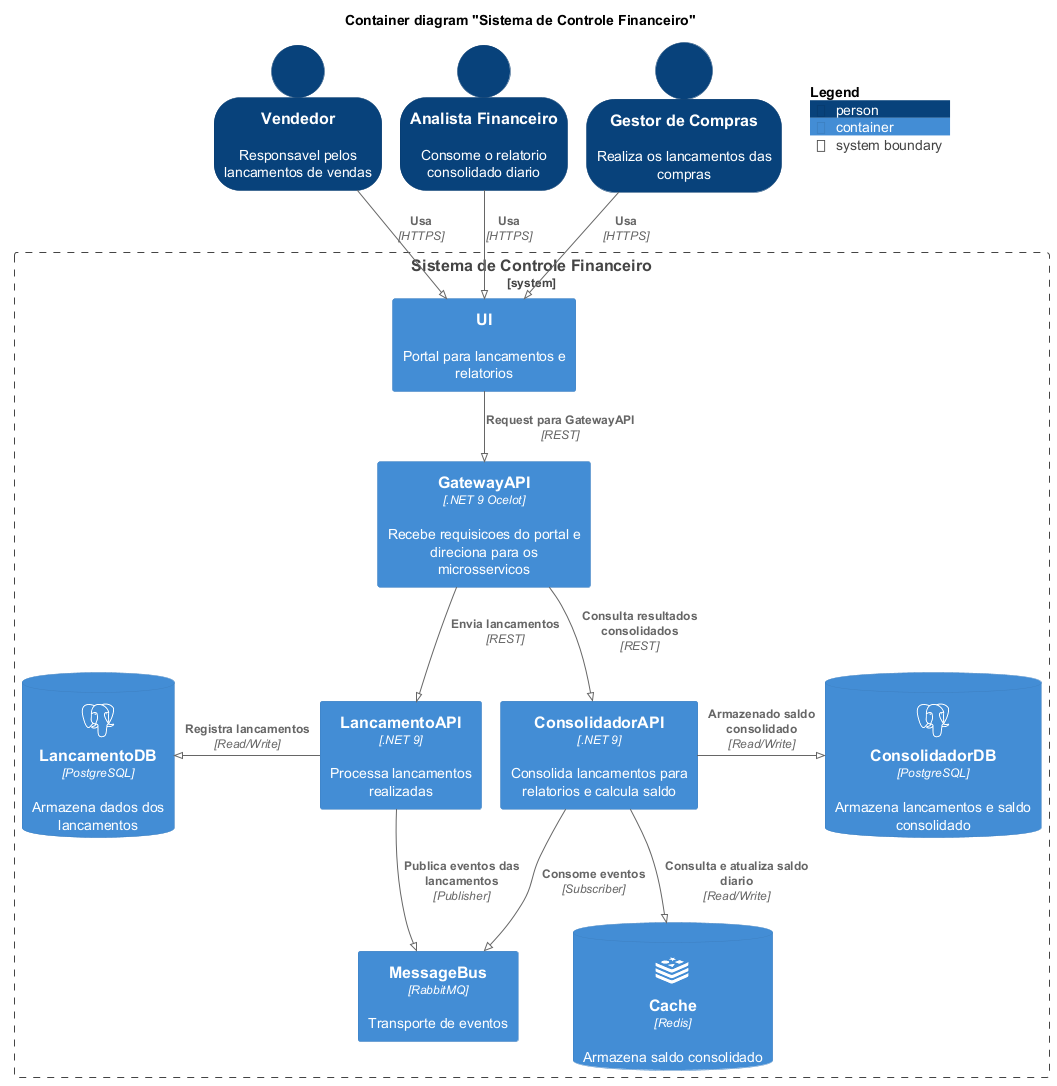
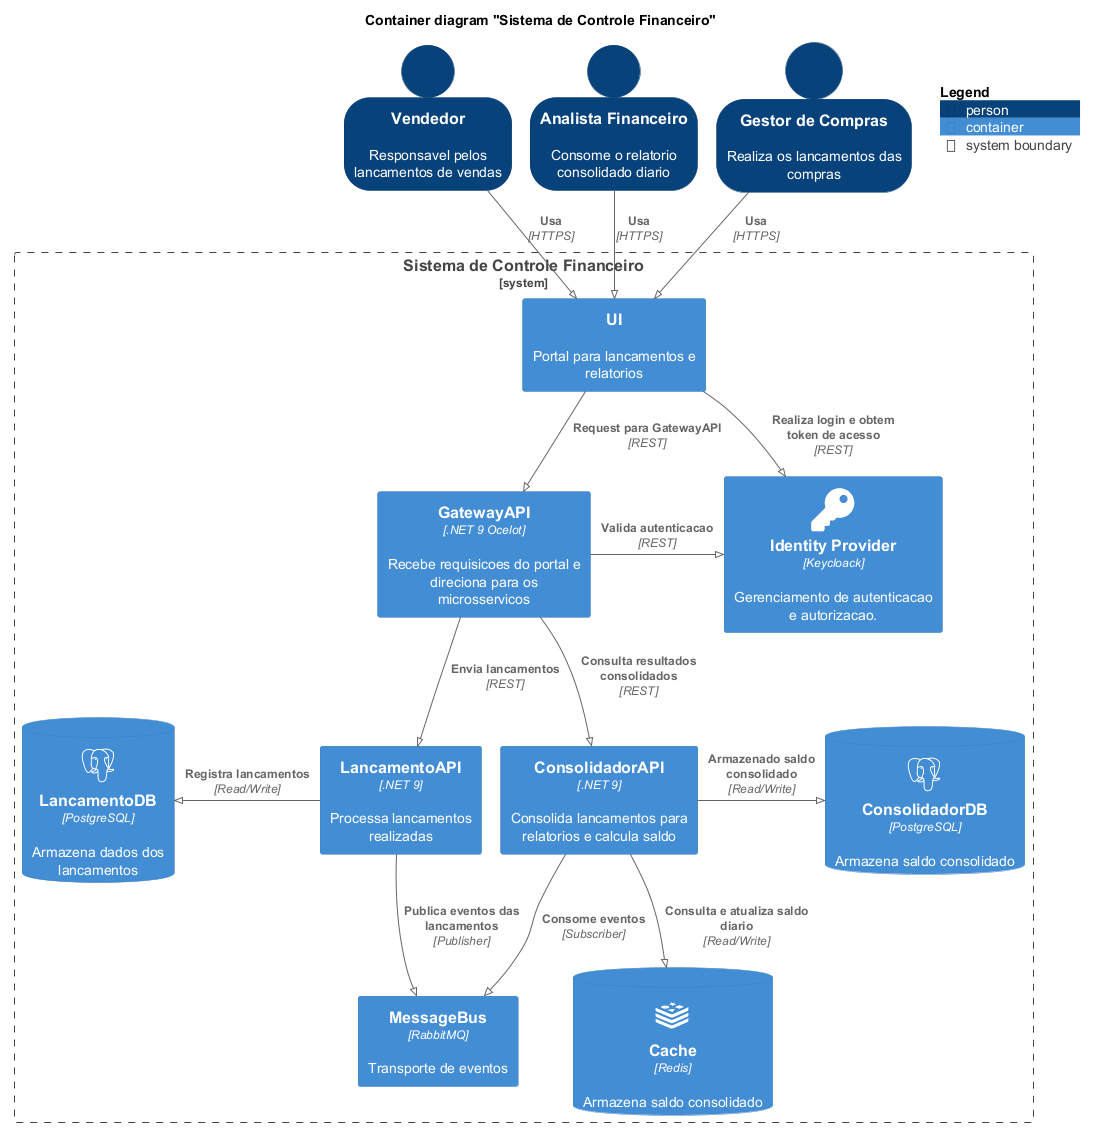
chore: add custo de hospedagem; autenticacao; monitoramento

Changed region(s): [[0.0, 0.0, 0.9991, 1.0]]

diff --git a/README.md b/README.md
@@ -4,6 +4,10 @@
 
 Esse documento tem como objetivo explicar o processo de construção do sistema de controle de financeiro. Abrangendo tópicos como: objetivo do sistema, arquitetura, decisões tomadas, especifições funcionais e não funcionais.
 
+Para cumprimento do desafio, foi imaginado um comércio que realiza venda de produtos e compra de suprimentos.
+
+Para comprimento do prazo, o código desenvolvido se limitou ao fluxo do backend e sem envolver autenticação (mas está contemplado na arquitetura).
+
 ## Contexto
 
 Esse é um sistema com o objetivo de realizar o controle dos lançamentos de débito e credito de um comércio. E a partir desses lançamentos, gerar um relatório do consolidado diário. A fim de trazer ao comerciante, dados sobre o fechamento financeiro do dia.
@@ -35,6 +39,11 @@ de consolidado diário cair:** O dois serviços devem funcionar de forma indepen
 recebe 50 requisições por segundo, com no máximo 5% de perda de
 requisições:** Considerar mudança de workload na consulta do saldo. 
 
+- **Autenticação:** Todas as chamadas realizadas para as APIs deve ser autenticadas.
+
+- **Escalabilidade:** Os componentes arquiteturais não podem guardar estado, ou seja, deve ser stateless, para a possibilidade de escalonamento horiozontal.
+
+
 ## Architecture Decision Records
 
 - [ADR: 001: Separação dos Serviços de Lançamento e Consolidação](./docs/adrs/adr-001-separacao-dos-servicos.md)
@@ -42,6 +51,7 @@ requisições:** Considerar mudança de workload na consulta do saldo.
 - [ADR: 003: Escolha do Sistema de Mensageria](./docs/adrs/adr-003-escolha-messagebroker.md)
 - [ADR: 004: Escolha das Tecnologias dos Bancos de Dados](./docs/adrs/adr-004-escolha-bancos-de-dados.md)
 - [ADR: 005: Adicionar uma Camada de Cache na Consulta de Saldo](./docs/adrs/adr-005-inclusao-cache.md)
+- [ADR: 006: Adicionar uma Camada de Autenticação](./docs/adrs/adr-006-inclusao-idp.md)
 
 ## Desenho da Solucão
 
@@ -49,9 +59,38 @@ requisições:** Considerar mudança de workload na consulta do saldo.
 
 ## Diagramas de Sequencia
 
-Diagramas de sequência para cada funcionalidade do sistema.
+O fluxo resumido dos sistema é o seguinte: Usuário acessa portal, faz um lançamento de compra ou venda, a chamada passa pelo gateway, e o serviço de lançamento, gera um débito ou crédito, de acordo com o endpoint chamada (compra ou venda). Após isso, é enviado para o rabbitmq o evento de lancamento realizado, a api de consolidação consome esse evento, e soma o valor do evento, com o saldo diário de acordo com a data do lançamento.
 
+Os fluxos detalhados das funcionalides podem ser vistos no link abaixo:
 - [Diagramas de Sequência](./docs/diagrams/v1/sequence-diagrams.md#Fluxo)
+
+## Monitoramento e Observabilidade
+Para monitoramento da solução, os serviços devem fazer implementação de heathcheck, verificando a integradade das comunicações com os componentes consumidos. Para consumo do endpoint de healthcheck utilizaremos o **Prometheus**, consumindo dados também como uso de memória e CPU. Para visualização desses dados, pode-se usar o **Grafana** integrado com o Prometheus.
+
+Para observilidade, tracing e analise de logs, vamos usar **ElasticSearch + Kibana**. Podendo ver a comunicação entre os serviços, através de APM e estratégias de correlationID, além de analisar mais detalhadamente logs gerados pelas aplicações.
+
+## Rodando Localmente
+
+A aplicação possui um docker compose responsável por subir os componentes:
+- lancamentoApi
+- consolidadorApi
+- gateway
+- postgresql
+- redis
+- rabbitmq
+
+Para rodar basta:
+1. Ir até o diretório **/source**
+2. Rodar o comando ``docker compose build``
+3. Rodar o comando ``docker compose up``
+
+Com isso, os serviços estarão acessivies via **localhost** nas seguintes portas:
+- gateway: 5000
+- lancamentoApi: 5001
+- consolidadorApi: 5002
+- postgres: 5431
+- redis: 6379
+- rabbitmq management: 15672
 
 ## Possibilidades de Melhoria
 
@@ -64,6 +103,20 @@ Essas melhorias, estão contempladas em uma segunda versão das documentações:
 [Documentações V2](./docs/diagrams/v2/diagramsv2.md)
 
 
-## Custo de Hospedagem
+## Custo de Hospedagem (Azure)
 
-## Plano de Capacidade
+**App Service Plan** - Premium V2 Tier; 1 P2V2 (2 Core(s), 7 GB RAM, 250 GB Storage) x 730 Hours; Linux OS; | **R$845.71**
+ 
+- WebApp: Gateway 
+- WebApp: LancamentoApi
+- WebApp: ConsolidadorApi
+
+**PostgreSQL** - Flexible Server Deployment, General Purpose Tier | **R$748.52**
+
+**RabbitMQ** - Virtual Machine A2 (2 Cores, 3.5 GB RAM) x 730 Hours Linux | **R$502.40**
+
+**Redis** - Azure Cache for Redis; Basic tier; 1 C0 instances, 730 Hours | **R$92.11**
+
+**KeyCloack** - Virtual Machine A2 (2 Cores, 3.5 GB RAM) x 730 Hours Linux | **R$502.40**
+
+**obs:** O custo de hospegam, pode variar após um plano de capacidade bem definido e teste de carga para entender o consumo de recursos de cada aplicação.

diff --git a/docs/adrs/adr-006-inclusao-idp.md b/docs/adrs/adr-006-inclusao-idp.md
@@ -1,0 +1,23 @@
+# ADR: 006: Adicionar uma Camada de Autenticação
+
+## Contexto
+
+Um requisito não funcional da aplicação é garantir que todas as chamadas para as apis sejam autenticadas. Com isso, precisamos decidir a estratégia para atender esse requisito.
+
+## Decisão
+
+Como estamos trabalhando em uma arquitetura distribuida, o serviço de autenticação deve ser capaz de gerenciar multiplos recursos. Para isso, escolhemos utilizar o IDP (Identity Provider) Keycloak. Por ser uma solução robusta, open-source com capacidade de self-hosted e sem custo de licença.
+
+Para garantir que todas as chamadas que chegem nas apis estejam autenticadas, o gateway vai se comunicar com o idp, validando a autenticação de todas as requests que passar por ele.
+
+## Alternativas
+
+Algumas alternativas que poderiam ser consideradas, era usar o Okta ou PingID, mas são soluções pagas por serem mais robustas e corporativas.
+
+## Pontos Positivos
+
+- Segurança que toda a comunicação com as apis estarão autenticadas.
+
+## Pontos Negativos
+
+- Aumento de latência nas chamadas para validação de autenticação.

diff --git a/requisitos-desafio.md b/requisitos-desafio.md
@@ -8,9 +8,9 @@
 - Justificativa na decisão/escolha de ferramentas/tecnologias e de tipo de
 arquitetura **OK**
 - Pode ser feito na linguagem que você domina - **OK**
-- Testes
+- Testes - **OK**
 - Readme com instruções claras de como a aplicação funciona, e como
-rodar localmente
+rodar localmente **OK**
 - Hospedar em repositório publico (GitHub) **OK**
 - Desenho da solução da Arquitetura de Transição (se necessária,
 considerando uma migração de legado) - **OK**
